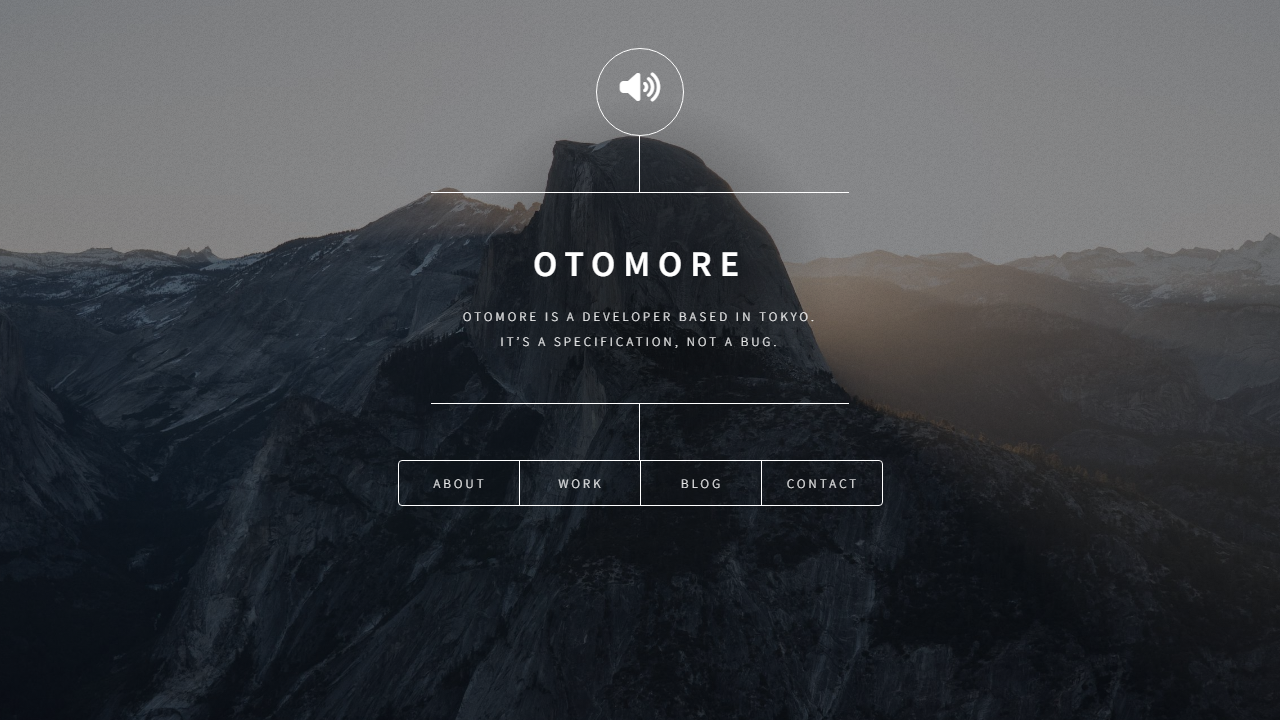
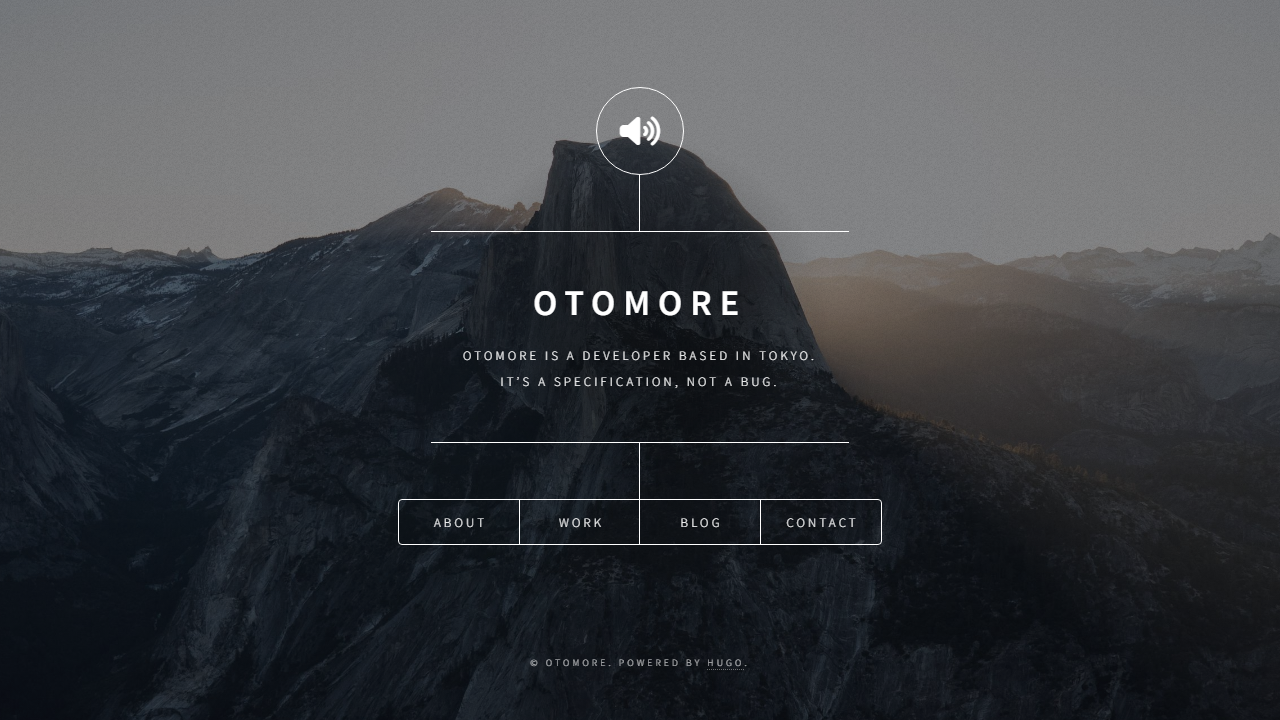
Font Awesome 6 互換性修正

diff --git a/layouts/partials/header.html b/layouts/partials/header.html
@@ -26,5 +26,5 @@
 		<meta name="twitter:description" content="{{ if .IsPage }}{{ .Summary }}{{ else }}{{ .Site.Params.Description }}{{ end }}">
 	</head>
 	<!-- Scripts -->
-			<script src="https://cdnjs.cloudflare.com/ajax/libs/jquery/3.7.1/jquery.min.js" integrity="sha512-v2CJ7UaYy4JwqLDIrZUI/4hqeoQieOmAZNXBeQyjo21dadnwR+8ZaIJVT8EE2ber8Y5b2HKLHQHGM8DLGW==" crossorigin="anonymous" referrerpolicy="no-referrer"></script>
+			<script src="https://cdnjs.cloudflare.com/ajax/libs/jquery/3.7.1/jquery.min.js" integrity="sha512-v2CJ7UaYy4JwqLDIrZUI/4hqeoQieOmAZNXBeQyjo21dadnwR+8ZaIJVT8EE2iyI61OV8e6M8PP2/4hpQINQ/g==" crossorigin="anonymous" referrerpolicy="no-referrer"></script>
 	<body>

diff --git a/static/css/project.css b/static/css/project.css
@@ -1,0 +1,26 @@
+/* Font Awesome 6 compatibility fixes */
+
+/* Override FA4 font-family with FA6 */
+.icon:before {
+    font-family: inherit;
+}
+
+/* Fix logo icon centering */
+#header .logo .icon {
+    display: flex;
+    align-items: center;
+    justify-content: center;
+    width: 100%;
+    height: 100%;
+}
+
+#header .logo .icon:before {
+    font-family: "Font Awesome 6 Free";
+    font-weight: 900;
+}
+
+/* Fix social icons (brands) */
+ul.icons li a.icon:before {
+    font-family: "Font Awesome 6 Brands";
+    font-weight: 400;
+}
